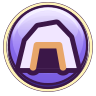
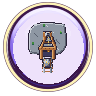
Keep the mine picker on the shared disc layout
The Buildings picker uses the parked cart still on the existing disc
art, so the Mine button keeps the same size and two-ring layout as the
other tools. The HUD drive now expects all eight tools, including the
outer ring.

diff --git a/.cursor/skills/verify-flagoria/features/hud-round-buttons.md b/.cursor/skills/verify-flagoria/features/hud-round-buttons.md
@@ -3,19 +3,19 @@
 Drive: drives/hud_round_buttons.gd
 Source: Scripts/ui/round_hud_style.gd
 
-The match starts with the parchment map and build picker closed. Map sits left of Menu on the top edge. Attack mirrors the joystick and matches its base diameter. Run sits inward and above the wheel on the inside of Attack. Buildings sits above and outward from Attack and opens two compact rings over the dimmed playfield. Captions appear where they fit. From the top, the inner ring holds Plank, Wall and Tower, and the outer ring holds Castle, Guard post and Barracks. The picker follows Buildings in a custom layout. Tap Buildings again, pick a tool or tap outside to close the picker. The selected tool keeps its ring when reopened.
+The match starts with the parchment map and build picker closed. Map sits left of Menu on the top edge. Attack mirrors the joystick and matches its base diameter. Run sits inward and above the wheel on the inside of Attack. Buildings sits above and outward from Attack and opens two compact rings over the dimmed playfield. Captions appear where they fit. From the top, the inner ring holds Plank, Wall and Tower, and the outer ring holds Castle, Guard post, Barracks, Mine and Demolish. The picker follows Buildings in a custom layout. Tap Buildings again, pick a tool or tap outside to close the picker. The selected tool keeps its ring when reopened.
 
 ## Sub-features
 
 - `hud-round-arc` Map sits beside Menu, and Buildings sits beside the Attack, Run and tool wheel cluster, with clear space around the tap targets (`-- test_hud_no_overlap` and live drive). Run is a smaller neighbour of the attack button.
 - `hud-build-list` Buildings opens the picker and a second tap or an outside tap closes it. Each lilac disc has its own baked-in tool icon, with Lilita One captions where space permits. Picking a building selects that tool, collapses the list and keeps the pale-yellow ring (`-- test_hud_round_buttons`, `-- test_build_picker_switches_tool`).
-- `hud-build-saved-layout` If a narrower viewport would put another HUD target over Buildings, Buildings shifts clear. The regression test restores a layout saved at 3840×1080, taps Buildings at 2400×1080, checks that all six tools are visible within the viewport, and taps Buildings again to dismiss (`-- test_build_picker_saved_layout_tap`).
+- `hud-build-saved-layout` If a narrower viewport would put another HUD target over Buildings, Buildings shifts clear. The regression test restores a layout saved at 3840×1080, taps Buildings at 2400×1080, checks that all eight tools are visible within the viewport, and taps Buildings again to dismiss (`-- test_build_picker_saved_layout_tap`).
 - `hud-no-overlap` All visible tap targets stay inside the viewport and clear of one another at phone, desktop and tablet sizes. The test opens Buildings, Scores and the tool wheel, and repeats the default and Buildings states with a saved custom layout (`-- test_hud_no_overlap`).
 - `hud-layout-golden` Stock HUD hit rectangles match the saved layout at four window sizes for the default, Buildings and Scores states (`-- test_hud_layout_golden`).
 
 ## How to get to it (user POV)
 
-- Host a world. Buildings sits beside the right-thumb cluster and parchment is closed. Tap Buildings to show Plank, Tower, Castle, Guard post, Barracks and Wall, and tap Map to open parchment. Key 3 arms chop and key 1 returns to sword. Run is the small button beside attack.
+- Host a world. Buildings sits beside the right-thumb cluster and parchment is closed. Tap Buildings to show Plank, Wall, Tower, Castle, Guard post, Barracks, Mine and Demolish, and tap Map to open parchment. Key 3 arms chop and key 1 returns to sword. Run is the small button beside attack.
 
 ## Driving it with verify-flagoria helpers
 
@@ -27,7 +27,7 @@ Preconditions: `doctor.sh` exits `0`. Time cost: `test_hud_round_buttons` is abo
 
 ## Gotchas
 
-- Cut has no button. It is the tool while none of Plank, Tower, Castle, Guard post, Barracks or Wall is selected, and again after leaving interact mode.
+- Cut has no button. It is the tool while none of the Buildings picker tools is selected, and again after leaving interact mode.
 - The bright ring is the selected state. A darker face alone sits behind the icon and does not read as selected.
 - The tap target is larger than the disc. The extra pixels are not drawn, and the picker targets stay clear of each other and the other HUD buttons.
 - Replacing the four PNGs in `assets/ui/hud/` changes the icons with no code change. They import without mipmaps and the buttons draw them nearest-neighbour.
